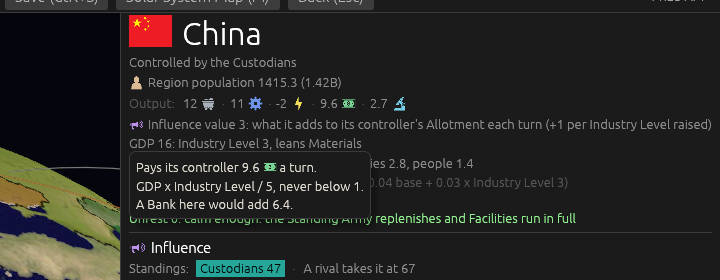
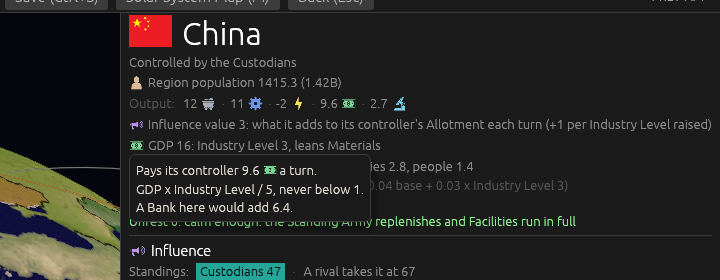
The Ducats glyph leads the Region card's GDP line (#475)
At the designer's word, before the ticket closed.

Changed region(s): [[0.1833, 0.4857, 1.0, 1.0]]

diff --git a/src/ui.rs b/src/ui.rs
@@ -7248,7 +7248,7 @@ This turn {:+.2}%: {:+.1} million.", c.population_growth * 100.0, c.population_l
     // Ticket #475 (version 0.09.8): the line cut to the designer's words -- *"GDP 23: Industry Level
     // 3, leans Fuel"* -- and what it said before is its hover: the pay, the rule, the Bank.
     rule_tip(
-        ui.label(format!("GDP {}: Industry Level {}, leans {:?}", card.gdp, st.industry_level, card.resource_lean)),
+        icon_word(ui, "ducats", format!("GDP {}: Industry Level {}, leans {:?}", card.gdp, st.industry_level, card.resource_lean)),
         format!("Pays its controller {} Ducats a turn.\nGDP x Industry Level / 5, never below 1.\nA{} {} here would add {}.", pays, if bank == FacilityKind::InvestmentBank { "n" } else { "" }, bank.name(), game.facility_yield(Seat(0), sid, bank).amount),
     );
     icon_word(ui, "emissions", format!("Emissions this turn: industry {:.1}, Facilities {:.1}, people {:.1}", industry_em, fac_em, game.population_coefficient(sid) * st.population * mult));

diff --git a/docs/spec/version-0.09.8.md b/docs/spec/version-0.09.8.md
@@ -51,7 +51,7 @@ The authority is [ticket #475](https://github.com/whaleyjoshua2/Dying-Earth/issu
 
 - **The Region card's population line** reads "Region population 385.6 (386M)" behind the people
   glyph, and no more. Its hover, the growth rule, is unchanged.
-- **The Region card's GDP line** reads "GDP 23: Industry Level 3, leans Fuel".
+- **The Region card's GDP line** reads "GDP 23: Industry Level 3, leans Fuel", behind the Ducats glyph.
 - **What the GDP line said before is its hover**, three lines: what the Region pays its controller
   in Ducats a turn; the rule, GDP x Industry Level / 5, never below 1; and what the player's Bank
   would add there. A rival's pay the player cannot see stays hidden.
